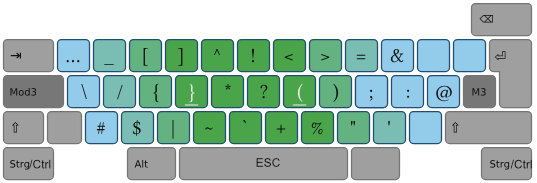
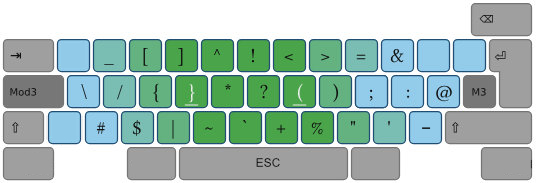
feat: add more features

diff --git a/keymap.c b/keymap.c
@@ -14,111 +14,134 @@
  * along with this program.  If not, see <http://www.gnu.org/licenses/>.
  */
 
-/**
- * KC_NO / XXXXXXX nothing
- * _______ / _______ transparent
- * */
+// @see https://docs.qmk.fm/newbs
 
 #include QMK_KEYBOARD_H
 
+/**
+ * use DE keycode aliases
+ * {@see keymap} https://github.com/qmk/qmk_firmware/blob/master/quantum/keymap_extras/keymap_german.h
+ * https://github.com/qmk/qmk_firmware/blob/master/quantum/keymap_extras/sendstring_german.h
+ */
 #include "sendstring_german.h"
 
-#define DE_LBRC_OSX A(DE_5) // [
-#define DE_RBRC_OSX A(DE_6) // ]
-#define DE_LCBR_OSX A(DE_8) // {
-#define DE_RCBR_OSX A(DE_9) // }
-#define DE_BSLS_OSX S(A(DE_7)) // (backslash)
-#define DE_PIPE_OSX A(DE_7) // |
-#define DE_STIL_OSX S(A(DE_8)) // ~
-#define DE_AT_OSX A(DE_L) // @
-
-// clang-format off
-enum layers{
-  MAC_BASE,
-  MAC_FN,
-  WIN_BASE,
-  WIN_FN,
-  MAC_DEV,
-  WIN_DEV,
+enum layers {
+    MAC_BASE,
+    MAC_FN,
+    WIN_BASE,
+    WIN_FN,
+    MAC_L3,
+    WIN_L3,
 };
 
+// custom keycodes to handle OSX symbols, when using "sendstring_german.h" over its "_osx" version, as the symbols are on different positions for DE_ISO osx
+#define DE_LBRC_OSX A(DE_5)    // [
+#define DE_RBRC_OSX A(DE_6)    // ]
+#define DE_LCBR_OSX A(DE_8)    // {
+#define DE_RCBR_OSX A(DE_9)    // }
+#define DE_BSLS_OSX S(A(DE_7)) // (backslash)
+#define DE_PIPE_OSX A(DE_7)    // |
+#define DE_STIL_OSX S(A(DE_8)) // ~
+#define DE_AT_OSX A(DE_L)      // @
+
 enum custom_keycodes {
-    BACKTICK = SAFE_RANGE,
-    CIRC,
-    TILD_OSX,
+    BACKTICK = SAFE_RANGE, // `
+    CIRC,                  // ^
+    TILD_OSX,              // ~
 };
 
 bool process_record_user(uint16_t keycode, keyrecord_t *record) {
     switch (keycode) {
-    case BACKTICK:
-        if (record->event.pressed) {
-            SEND_STRING("`");
-        }
-        return false;
-    case CIRC:
-        if (record->event.pressed) {
-            SEND_STRING("^");
-        }
-        return false;
-    case TILD_OSX:
-        if (record->event.pressed) {
-            SEND_STRING(SS_LOPT("n") SS_TAP(X_SPC));
-        }
-        return false;
+        case BACKTICK:
+            if (record->event.pressed) {
+                SEND_STRING("`");
+            }
+            return false;
+        case CIRC:
+            if (record->event.pressed) {
+                SEND_STRING("^");
+            }
+            return false;
+        case TILD_OSX:
+            if (record->event.pressed) {
+                SEND_STRING(SS_LOPT("n") SS_TAP(X_SPC));
+            }
+            return false;
 
-    default:
-        return true;
-
-    return true;
+        default:
+            return true;
     }
 };
 
+// activate caps word by pressing left_shift and right_shift at the same time
+bool caps_word_press_user(uint16_t keycode) {
+    switch (keycode) {
+        // Keycodes that continue Caps Word, with shift applied.
+        case KC_A ... KC_Z:
+        case DE_MINS:
+            add_weak_mods(MOD_BIT(KC_LSFT)); // Apply shift to next key.
+            return true;
+
+        // Keycodes that continue Caps Word, without shifting.
+        case KC_1 ... KC_0:
+        case KC_BSPC:
+        case KC_DEL:
+        case DE_UNDS:
+            return true;
+
+        default:
+            return false; // Deactivate Caps Word.
+    }
+}
+
+// clang-format off
 const uint16_t PROGMEM keymaps[][MATRIX_ROWS][MATRIX_COLS] = {
 [MAC_BASE] = LAYOUT_iso_85(
-     KC_ESC,       KC_BRID,  KC_BRIU,  KC_MCTL,  KC_LPAD,  RGB_VAD,  RGB_VAI,  KC_MPRV,  KC_MPLY,  KC_MNXT,  KC_MUTE,  KC_VOLD,  KC_VOLU,  KC_SNAP,  KC_DEL,   RGB_MOD,
-     KC_GRV,       KC_1,     KC_2,     KC_3,     KC_4,     KC_5,     KC_6,     KC_7,     KC_8,     KC_9,     KC_0,     KC_MINS,  KC_EQL,   KC_BSPC,            KC_PGUP,
-     KC_TAB,       KC_Q,     KC_W,     KC_E,     KC_R,     KC_T,     KC_Y,     KC_U,     KC_I,     KC_O,     KC_P,     KC_LBRC,  KC_RBRC,  KC_ENT,             KC_PGDN,
-     MO(MAC_DEV),  KC_A,     KC_S,     KC_D,     KC_F,     KC_G,     KC_H,     KC_J,     KC_K,     KC_L,     KC_SCLN,  KC_QUOT,            MO(MAC_DEV),        KC_HOME,
-     KC_LSFT,      KC_NUBS,  KC_Z,     KC_X,     KC_C,     KC_V,     KC_B,     KC_N,     KC_M,     KC_COMM,  KC_DOT,   KC_SLSH,            KC_RSFT,  KC_UP,    KC_END,
-     KC_LCTL,      KC_LOPTN, KC_LCMMD,                               KC_SPC,                                 KC_RCMMD, MO(MAC_FN),KC_RCTL, KC_LEFT,  KC_DOWN,  KC_RGHT),
+     KC_ESC,       KC_BRID,     KC_BRIU,  KC_MCTL,  KC_LPAD,  RGB_VAD,  RGB_VAI,  KC_MPRV,  KC_MPLY,  KC_MNXT,  KC_MUTE,  KC_VOLD,  KC_VOLU,  KC_SNAP,   KC_DEL,     RGB_MOD,
+     KC_GRV,       KC_1,        KC_2,     KC_3,     KC_4,     KC_5,     KC_6,     KC_7,     KC_8,     KC_9,     KC_0,     KC_MINS,  KC_EQL,   KC_BSPC,               KC_PGUP,
+     KC_TAB,       KC_Q,        KC_W,     KC_E,     KC_R,     KC_T,     KC_Y,     KC_U,     KC_I,     KC_O,     KC_P,     KC_LBRC,  KC_RBRC,  KC_ENT,                KC_PGDN,
+     MO(MAC_L3),   KC_A,        KC_S,     KC_D,     KC_F,     KC_G,     KC_H,     KC_J,     KC_K,     KC_L,     KC_SCLN,  KC_QUOT,            LT(MAC_L3, KC_BSLS),   KC_HOME,
+     KC_LSFT,      KC_NUBS,     KC_Z,     KC_X,     KC_C,     KC_V,     KC_B,     KC_N,     KC_M,     KC_COMM,  KC_DOT,   KC_SLSH,            KC_RSFT,   KC_UP,      KC_END,
+     KC_LCTL,      KC_LOPTN,    KC_LCMMD,                               KC_SPC,                                 KC_RCMMD, MO(MAC_FN),KC_RCTL, KC_LEFT,   KC_DOWN,    KC_RGHT),
 
 [MAC_FN] = LAYOUT_iso_85(
-     _______,  KC_F1,    KC_F2,    KC_F3,    KC_F4,    KC_F5,    KC_F6,    KC_F7,    KC_F8,    KC_F9,    KC_F10,   KC_F11,   KC_F12,   _______,  _______,  RGB_TOG,
-     _______,  BT_HST1,  BT_HST2,  BT_HST3,  _______,  _______,  _______,  _______,  _______,  _______,  _______,  _______,  _______,  _______,            _______,
-     BAT_LVL,  RGB_MOD,  RGB_VAI,  RGB_HUI,  RGB_SAI,  RGB_SPI,  _______,  _______,  _______,  _______,  _______,  _______,  _______,  _______,            _______,
-     _______,  RGB_RMOD, RGB_VAD,  RGB_HUD,  RGB_SAD,  RGB_SPD,  _______,  _______,  _______,  _______,  _______,  _______,            _______,            _______,
-     _______,  _______,  _______,  _______,  _______,  _______,  BAT_LVL,  NK_TOGG,  _______,  _______,  _______,  _______,            _______,  _______,  _______,
-     _______,  _______,  _______,                                _______,                                _______,  _______,  _______,  _______,  _______,  _______),
+     _______,      KC_F1,       KC_F2,    KC_F3,    KC_F4,    KC_F5,    KC_F6,    KC_F7,    KC_F8,    KC_F9,    KC_F10,   KC_F11,   KC_F12,   _______,  _______,  RGB_TOG,
+     _______,      BT_HST1,     BT_HST2,  BT_HST3,  _______,  _______,  _______,  _______,  _______,  _______,  _______,  _______,  _______,  _______,            _______,
+     BAT_LVL,      RGB_MOD,     RGB_VAI,  RGB_HUI,  RGB_SAI,  RGB_SPI,  _______,  _______,  _______,  _______,  _______,  _______,  _______,  _______,            _______,
+     _______,      RGB_RMOD,    RGB_VAD,  RGB_HUD,  RGB_SAD,  RGB_SPD,  _______,  _______,  _______,  _______,  _______,  _______,            _______,            _______,
+     _______,      _______,     _______,  _______,  _______,  _______,  BAT_LVL,  NK_TOGG,  _______,  _______,  _______,  _______,            _______,  _______,  _______,
+     _______,      _______,     _______,                                _______,                                _______,  _______,  _______,  _______,  _______,  _______),
 
-[MAC_DEV] = LAYOUT_iso_85(
-     _______,  _______,     _______,  _______,      _______,      _______,     _______,  _______,  _______,  _______,  _______,  _______,  _______,  _______,  _______,  _______,
-     _______,  _______,     _______,  _______,      _______,      _______,     _______,  _______,  _______,  _______,  _______,  _______,  _______,  _______,            _______,
-     _______,  _______,     DE_UNDS,  DE_LBRC_OSX,  DE_RBRC_OSX,  CIRC,        DE_EXLM,  DE_LABK,  DE_RABK,  DE_EQL,   DE_AMPR,  _______,  _______,  _______,            _______,
-     _______,  DE_BSLS_OSX, DE_SLSH,  DE_LCBR_OSX,  DE_RCBR_OSX,  DE_ASTR,     DE_QUES,  DE_LPRN,  DE_RPRN,  DE_SCLN,  DE_COLN,  DE_AT_OSX,              _______,            _______,
-     _______,  _______,     DE_HASH,  DE_DLR,       DE_PIPE_OSX,  TILD_OSX, BACKTICK, DE_PLUS,  DE_PERC,  DE_DQUO,  DE_QUOT,  _______,            _______,  _______,  _______,
-     _______,  _______,     _______,                              KC_ESC,                                 _______,  _______,  _______,  _______,  _______,  _______),
+[MAC_L3] = LAYOUT_iso_85(
+     _______,      _______,     _______,  _______,      _______,      _______,     _______,  _______,  _______,  _______,  _______,  _______,  _______,  _______,  _______,  _______,
+     _______,      _______,     _______,  _______,      _______,      _______,     _______,  _______,  _______,  _______,  _______,  _______,  _______,  _______,            _______,
+     _______,      _______,     DE_UNDS,  DE_LBRC_OSX,  DE_RBRC_OSX,  CIRC,        DE_EXLM,  DE_LABK,  DE_RABK,  DE_EQL,   DE_AMPR,  _______,  _______,  _______,            _______,
+     _______,      DE_BSLS_OSX, DE_SLSH,  DE_LCBR_OSX,  DE_RCBR_OSX,  DE_ASTR,     DE_QUES,  DE_LPRN,  DE_RPRN,  DE_SCLN,  DE_COLN,  DE_AT_OSX,          _______,            _______,
+     _______,      _______,     DE_HASH,  DE_DLR,       DE_PIPE_OSX,  TILD_OSX,    BACKTICK, DE_PLUS,  DE_PERC,  DE_DQUO,  DE_QUOT,  _______,            _______,  _______,  _______,
+     _______,      _______,     _______,                                           KC_ESC,                                 _______,  _______,  _______,  _______,  _______,  _______),
 
 [WIN_BASE] = LAYOUT_iso_85(
-     KC_ESC,   KC_BRID,  KC_BRIU,  KC_TASK,  KC_FILE,  RGB_VAD,  RGB_VAI,  KC_MPRV,  KC_MPLY,  KC_MNXT,  KC_MUTE,  KC_VOLD,  KC_VOLU,  KC_PSCR,  KC_DEL,   RGB_MOD,
-     KC_GRV,   KC_1,     KC_2,     KC_3,     KC_4,     KC_5,     KC_6,     KC_7,     KC_8,     KC_9,     KC_0,     KC_MINS,  KC_EQL,   KC_BSPC,            KC_PGUP,
-     KC_TAB,   KC_Q,     KC_W,     KC_E,     KC_R,     KC_T,     KC_Y,     KC_U,     KC_I,     KC_O,     KC_P,     KC_LBRC,  KC_RBRC,  KC_ENT,             KC_PGDN,
-     MO(WIN_DEV),KC_A,   KC_S,     KC_D,     KC_F,     KC_G,     KC_H,     KC_J,     KC_K,     KC_L,     KC_SCLN,  KC_QUOT,            MO(WIN_DEV),        KC_HOME,
-     KC_LSFT,  KC_NUBS,  KC_Z,     KC_X,     KC_C,     KC_V,     KC_B,     KC_N,     KC_M,     KC_COMM,  KC_DOT,   KC_SLSH,            KC_RSFT,  KC_UP,    KC_END,
-     KC_LCTL,  KC_LGUI,  KC_LALT,                                KC_SPC,                                 KC_RALT, MO(WIN_FN),KC_RCTL,  KC_LEFT,  KC_DOWN,  KC_RGHT),
+     KC_ESC,       KC_BRID,     KC_BRIU,  KC_TASK,  KC_FILE,  RGB_VAD,  RGB_VAI,  KC_MPRV,  KC_MPLY,  KC_MNXT,  KC_MUTE,  KC_VOLD,    KC_VOLU,  KC_PSCR,   KC_DEL,      RGB_MOD,
+     KC_GRV,       KC_1,        KC_2,     KC_3,     KC_4,     KC_5,     KC_6,     KC_7,     KC_8,     KC_9,     KC_0,     KC_MINS,    KC_EQL,   KC_BSPC,                KC_PGUP,
+     KC_TAB,       KC_Q,        KC_W,     KC_E,     KC_R,     KC_T,     KC_Y,     KC_U,     KC_I,     KC_O,     KC_P,     KC_LBRC,    KC_RBRC,  KC_ENT,                 KC_PGDN,
+     MO(WIN_L3),   KC_A,        KC_S,     KC_D,     KC_F,     KC_G,     KC_H,     KC_J,     KC_K,     KC_L,     KC_SCLN,  KC_QUOT,              LT(WIN_L3, KC_BSLS),    KC_HOME,
+     KC_LSFT,      KC_NUBS,     KC_Z,     KC_X,     KC_C,     KC_V,     KC_B,     KC_N,     KC_M,     KC_COMM,  KC_DOT,   KC_SLSH,              KC_RSFT,   KC_UP,       KC_END,
+     KC_LCTL,      KC_LGUI,     KC_LALT,                                KC_SPC,                                 KC_RALT,  MO(WIN_FN), KC_RCTL,  KC_LEFT,   KC_DOWN,     KC_RGHT),
 
 [WIN_FN] = LAYOUT_iso_85(
-     _______,  KC_F1,    KC_F2,    KC_F3,    KC_F4,    KC_F5,    KC_F6,    KC_F7,    KC_F8,    KC_F9,    KC_F10,   KC_F11,   KC_F12,   _______,  _______,  RGB_TOG,
-     _______,  BT_HST1,  BT_HST2,  BT_HST3,  _______,  _______,  _______,  _______,  _______,  _______,  _______,  _______,  _______,  _______,            _______,
-     RGB_TOG,  RGB_MOD,  RGB_VAI,  RGB_HUI,  RGB_SAI,  RGB_SPI,  _______,  _______,  _______,  _______,  _______,  _______,  _______,  _______,            _______,
-     _______,  RGB_RMOD, RGB_VAD,  RGB_HUD,  RGB_SAD,  RGB_SPD,  _______,  _______,  _______,  _______,  _______,  _______,            _______,            _______,
-     _______,  _______,  _______,  _______,  _______,  _______,  BAT_LVL,  NK_TOGG,  _______,  _______,  _______,  _______,            _______,  _______,  _______,
-     _______,  _______,  _______,                                _______,                                _______,  _______,  _______,  _______,  _______,  _______),
+     _______,      KC_F1,       KC_F2,    KC_F3,    KC_F4,    KC_F5,    KC_F6,    KC_F7,    KC_F8,    KC_F9,    KC_F10,   KC_F11,   KC_F12,   _______,  _______,  RGB_TOG,
+     _______,      BT_HST1,     BT_HST2,  BT_HST3,  _______,  _______,  _______,  _______,  _______,  _______,  _______,  _______,  _______,  _______,            _______,
+     RGB_TOG,      RGB_MOD,     RGB_VAI,  RGB_HUI,  RGB_SAI,  RGB_SPI,  _______,  _______,  _______,  _______,  _______,  _______,  _______,  _______,            _______,
+     _______,      RGB_RMOD,    RGB_VAD,  RGB_HUD,  RGB_SAD,  RGB_SPD,  _______,  _______,  _______,  _______,  _______,  _______,            _______,            _______,
+     _______,      _______,     _______,  _______,  _______,  _______,  BAT_LVL,  NK_TOGG,  _______,  _______,  _______,  _______,            _______,  _______,  _______,
+     _______,      _______,     _______,                                _______,                                _______,  _______,  _______,  _______,  _______,  _______),
 
-[WIN_DEV] = LAYOUT_iso_85(
-     _______,  _______,  _______,  _______,  _______,  _______,  _______,  _______,  _______,  _______,  _______,  _______,  _______,  _______,  _______,  _______,
-     _______,  _______,  _______,  _______,  _______,  _______,  _______,  _______,  _______,  _______,  _______,  _______,  _______,  _______,            _______,
-     _______,  _______,  DE_UNDS,  DE_LBRC,  DE_RBRC,  CIRC,     DE_EXLM,  DE_LABK,  DE_RABK,  DE_EQL,   DE_AMPR,  _______,  _______,  _______,            _______,
-     _______,  DE_BSLS,  DE_SLSH,  DE_LCBR,  DE_RCBR,  DE_ASTR,  DE_QUES,  DE_LPRN,  DE_RPRN,  DE_SCLN,  DE_COLN,  DE_AT,              _______,            _______,
-     _______,  _______,  DE_HASH,  DE_DLR,   DE_PIPE,  DE_TILD,  BACKTICK, DE_PLUS,  DE_PERC,  DE_DQUO,  DE_QUOT,  _______,            _______,  _______,  _______,
-     _______,  _______,  _______,                                KC_ESC,                                 _______,  _______,  _______,  _______,  _______,  _______),
+[WIN_L3] = LAYOUT_iso_85(
+     _______,      _______,     _______,  _______,  _______,  _______,  _______,  _______,  _______,  _______,  _______,  _______,  _______,  _______,  _______,  _______,
+     _______,      _______,     _______,  _______,  _______,  _______,  _______,  _______,  _______,  _______,  _______,  _______,  _______,  _______,            _______,
+     _______,      _______,     DE_UNDS,  DE_LBRC,  DE_RBRC,  CIRC,     DE_EXLM,  DE_LABK,  DE_RABK,  DE_EQL,   DE_AMPR,  _______,  _______,  _______,            _______,
+     _______,      DE_BSLS,     DE_SLSH,  DE_LCBR,  DE_RCBR,  DE_ASTR,  DE_QUES,  DE_LPRN,  DE_RPRN,  DE_SCLN,  DE_COLN,  DE_AT,              _______,            _______,
+     _______,      _______,     DE_HASH,  DE_DLR,   DE_PIPE,  DE_TILD,  BACKTICK, DE_PLUS,  DE_PERC,  DE_DQUO,  DE_QUOT,  _______,            _______,  _______,  _______,
+     _______,      _______,     _______,                                KC_ESC,                                 _______,  _______,  _______,  _______,  _______,  _______),
 };
+

diff --git a/config.h b/config.h
@@ -1,1 +1,2 @@
 #define DYNAMIC_KEYMAP_LAYER_COUNT 6
+#define BOTH_SHIFTS_TURNS_ON_CAPS_WORD

diff --git a/readme.md b/readme.md
@@ -1,13 +1,36 @@
-# Neo Layer 3 QMK Keymap for Keychron K3 Pro
+# Keychron K3 Pro Neo Layer 3 QMK Keymap
+
+Reference the official guide on [https://docs.qmk.fm/](https://docs.qmk.fm/) to learn how to use qmk.
+
+## Features
+
+### Neo's Layer 3
+
+The [neo keyboard layout](https://neo-layout.org/Layouts/neoqwertz/#die-ebenen) has an amazing layer 3. Installing it on multiple OS sucks though.
+This QMK keymap implements a variation of neo layer 3 to have easy access to special characters for software development.
+
+Hold `Mod3` or `M3` to access common dev symbols as shown below.
 
 ![](neoqmk.jpg)
 
-The [neo keyboard layout](https://neo-layout.org/Layouts/neoqwertz/#die-ebenen) has an amazing layer 3 setup. Installing it on multiple OS sucks though.
-This QMK keymap implements a variation of neo layer 3, to have easy access to special characters for software development.
+> Note: Blank keys just send whatever keycode is below layer_3.
 
-Reference the official guide on [https://docs.qmk.fm/](https://docs.qmk.fm/).
+The right `M3` uses `layer_tap`, so that it will output `KC_BSLS` as per default if tapped but switches to layer 3 when held.
 
-## Building Firmware for K3 Pro
+**Changes to neo's layer 3**
+
+- `;` was moved to the `KC_L` position for easier access
+- space acts as as `KC_ESC` for better vim ergonomics
+
+### Caps Word
+
+Pressing `left_shift` and `right_shift` at the same time will enable "caps word" mode. For the next word, everything will be in caps. So you can easily write `MY_CONSTANT` without jumping between modifiers, and having to hold shift.
+
+Typing `-` will automatically output a `_` character.
+
+> Customize which characters delimit a word or are automatically shifted in `caps_word_press_user`.
+
+## Building the firmware for K3 Pro
 
 Keychron isnt great when it comes to QMK support. While they love to market their keyboards as QMK supported, you have to manually build the firmware from their fork.
 
@@ -23,3 +46,25 @@ make git-submodule
 ```
 
 After that, I could continue with the guide [https://docs.qmk.fm/newbs_building_firmware](https://docs.qmk.fm/newbs_building_firmware)
+
+Configure build environment defaults
+
+```bash
+qmk config user.keyboard=keychron/k3_pro/iso/rgb
+qmk config user.keymap=<github_username>
+```
+
+Create a new keymap
+
+```bash
+# creates a new keymap with your github_username in keychron/k3_pro/iso/rgb/keymaps
+qmk new-keymap
+```
+
+Compile
+
+```bash
+qmk compile -kb keychron/k3_pro/iso/rgb -km kitsunekyo
+```
+
+Then flash with QMK Toolbox
